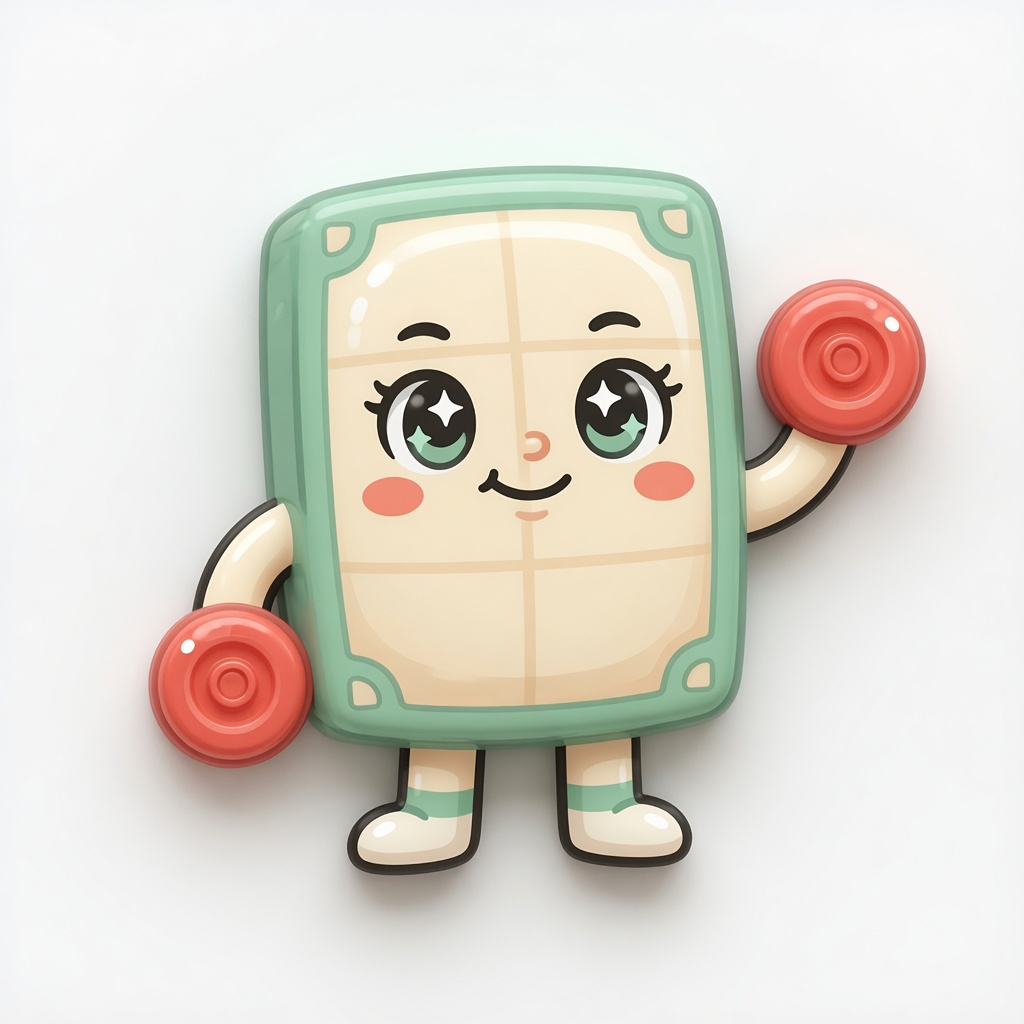
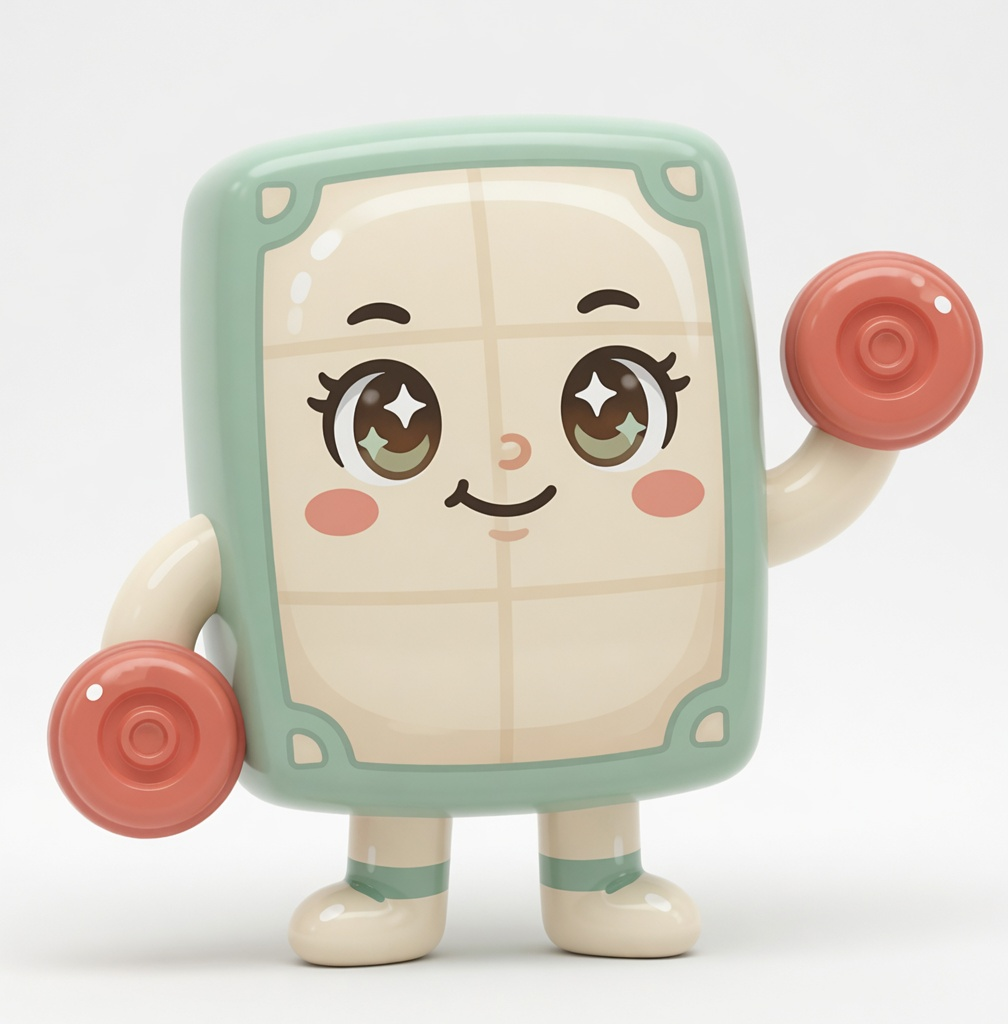
Set official Snapu as mint window mascot from user pick via Imagine

diff --git a/docs/characters/README.md b/docs/characters/README.md
@@ -1,25 +1,30 @@
-# HalfSnap character concepts
+# Snapu — official character
 
-## ✅ Official pick: Snapu (split)
+**Snapu** is HalfSnap’s brand kyara (Japanese product-mascot style).
 
-| File | Role |
-|------|------|
-| **`snapu.jpg`** | Canonical hero (same as split) |
-| **`snapu-split.jpg`** | Source design you chose |
+## Official assets
 
-**Snapu** = peach / sky-blue blob with a dashed center seam, cream face, red + blue eyes.  
-Maps to the product: left half · right half · fill · minimize.
+| File | Use |
+|------|-----|
+| **`snapu.jpg`** | Hero / marketing (Imagine polish from your pick) |
+| **`snapu-icon.jpg`** | Icon-friendly front pose |
+| **`snapu-source.jpg`** | Your chosen reference (source of truth) |
 
-Tagline direction: *Snapu — windows that click into place.*
+### Design
+- Mint-green **window pane** body + cream face grid  
+- Big sparkly eyes, rosy cheeks  
+- **Coral suction/magnet hands** (snap-to-edge)  
+- Cream limbs, mint socks, little boots  
 
-Product name can stay **HalfSnap** or lean into **Snapu** later — character is this face either way.
+**Personality:** tidy, strong little snap spirit — *click* windows into place.  
+**Tagline:** *Snapu — windows that click into place.*
 
-## Other explorations (not chosen)
+Product can stay **HalfSnap** or rebrand to **Snapu** later.
+
+## Not chosen
 
 | File | Notes |
 |------|--------|
-| `snapu-magnet.jpg` | Magnet hands — rejected |
-| `half-kun.jpg` | Earlier split-blob exploration |
-| `mado-chan.jpg` | Window cat |
-| `snappei.jpg` | Magnet candy spirit |
-| `docko.jpg` | Menu-bar gremlin |
+| `snapu-split.jpg` | Peach/blue split blob — earlier favorite, replaced |
+| `snapu-magnet.jpg` | Earlier magnet exploration |
+| `half-kun.jpg` / `mado-chan.jpg` / `snappei.jpg` / `docko.jpg` | Other concepts |
